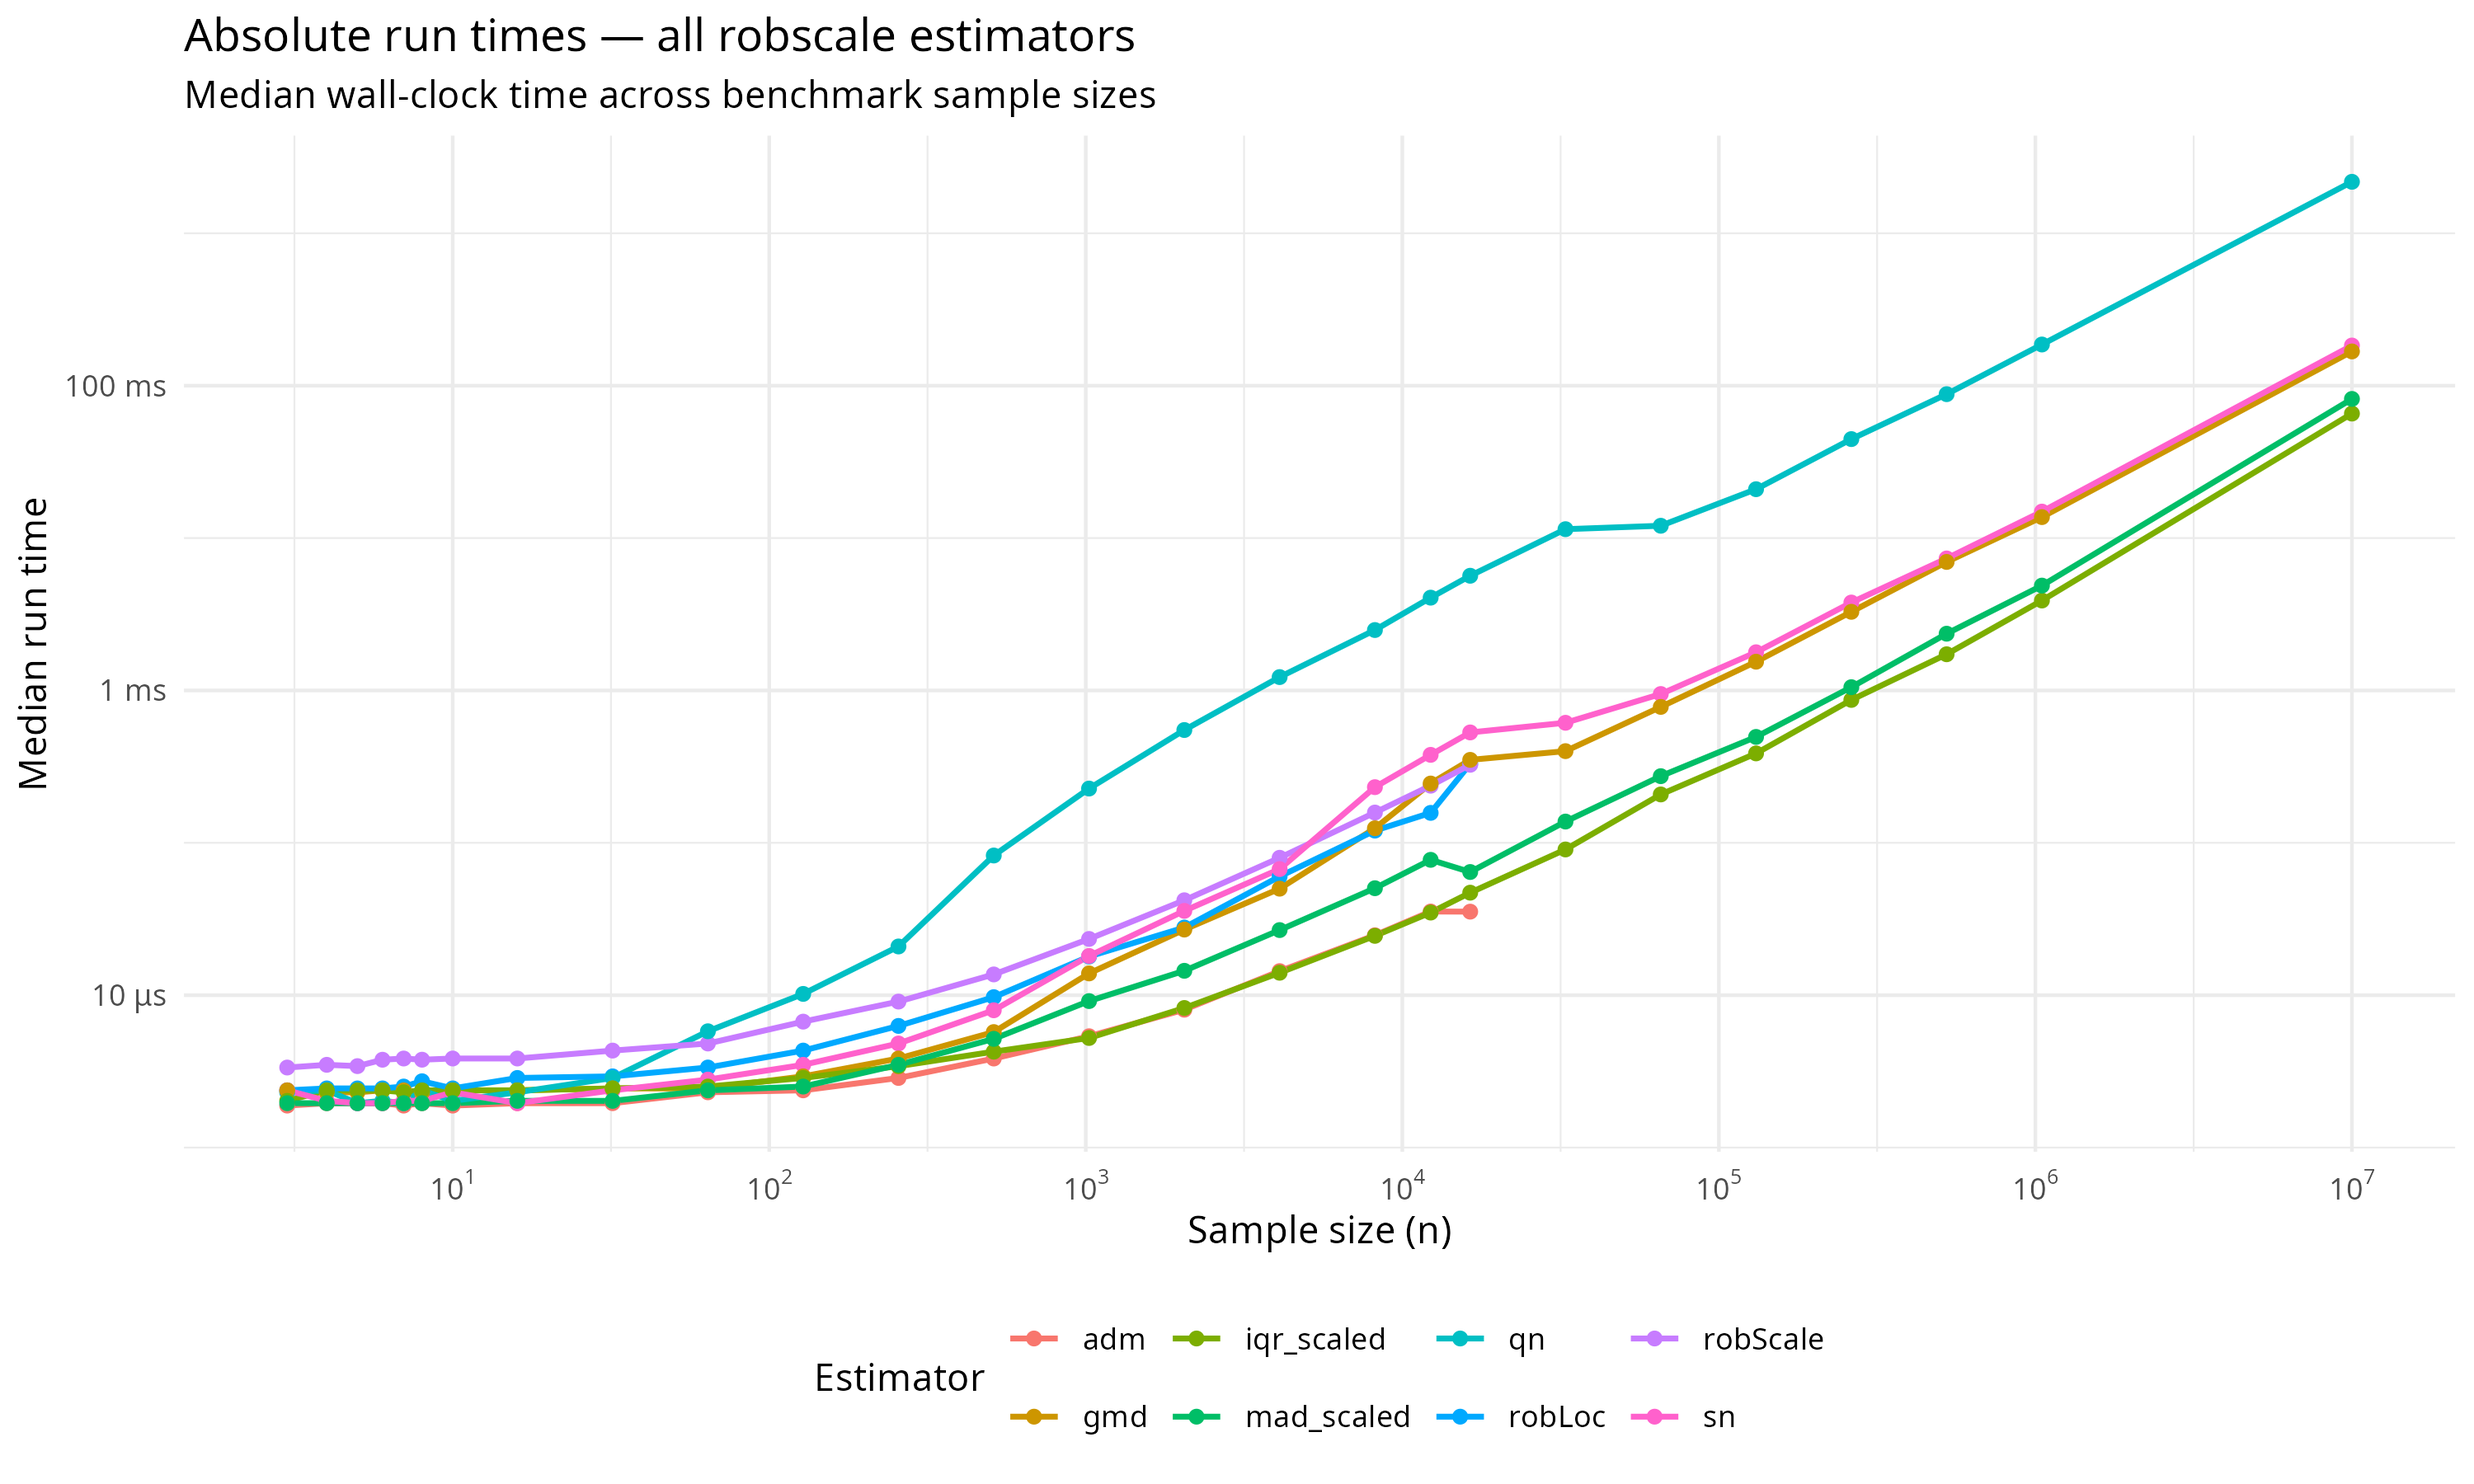
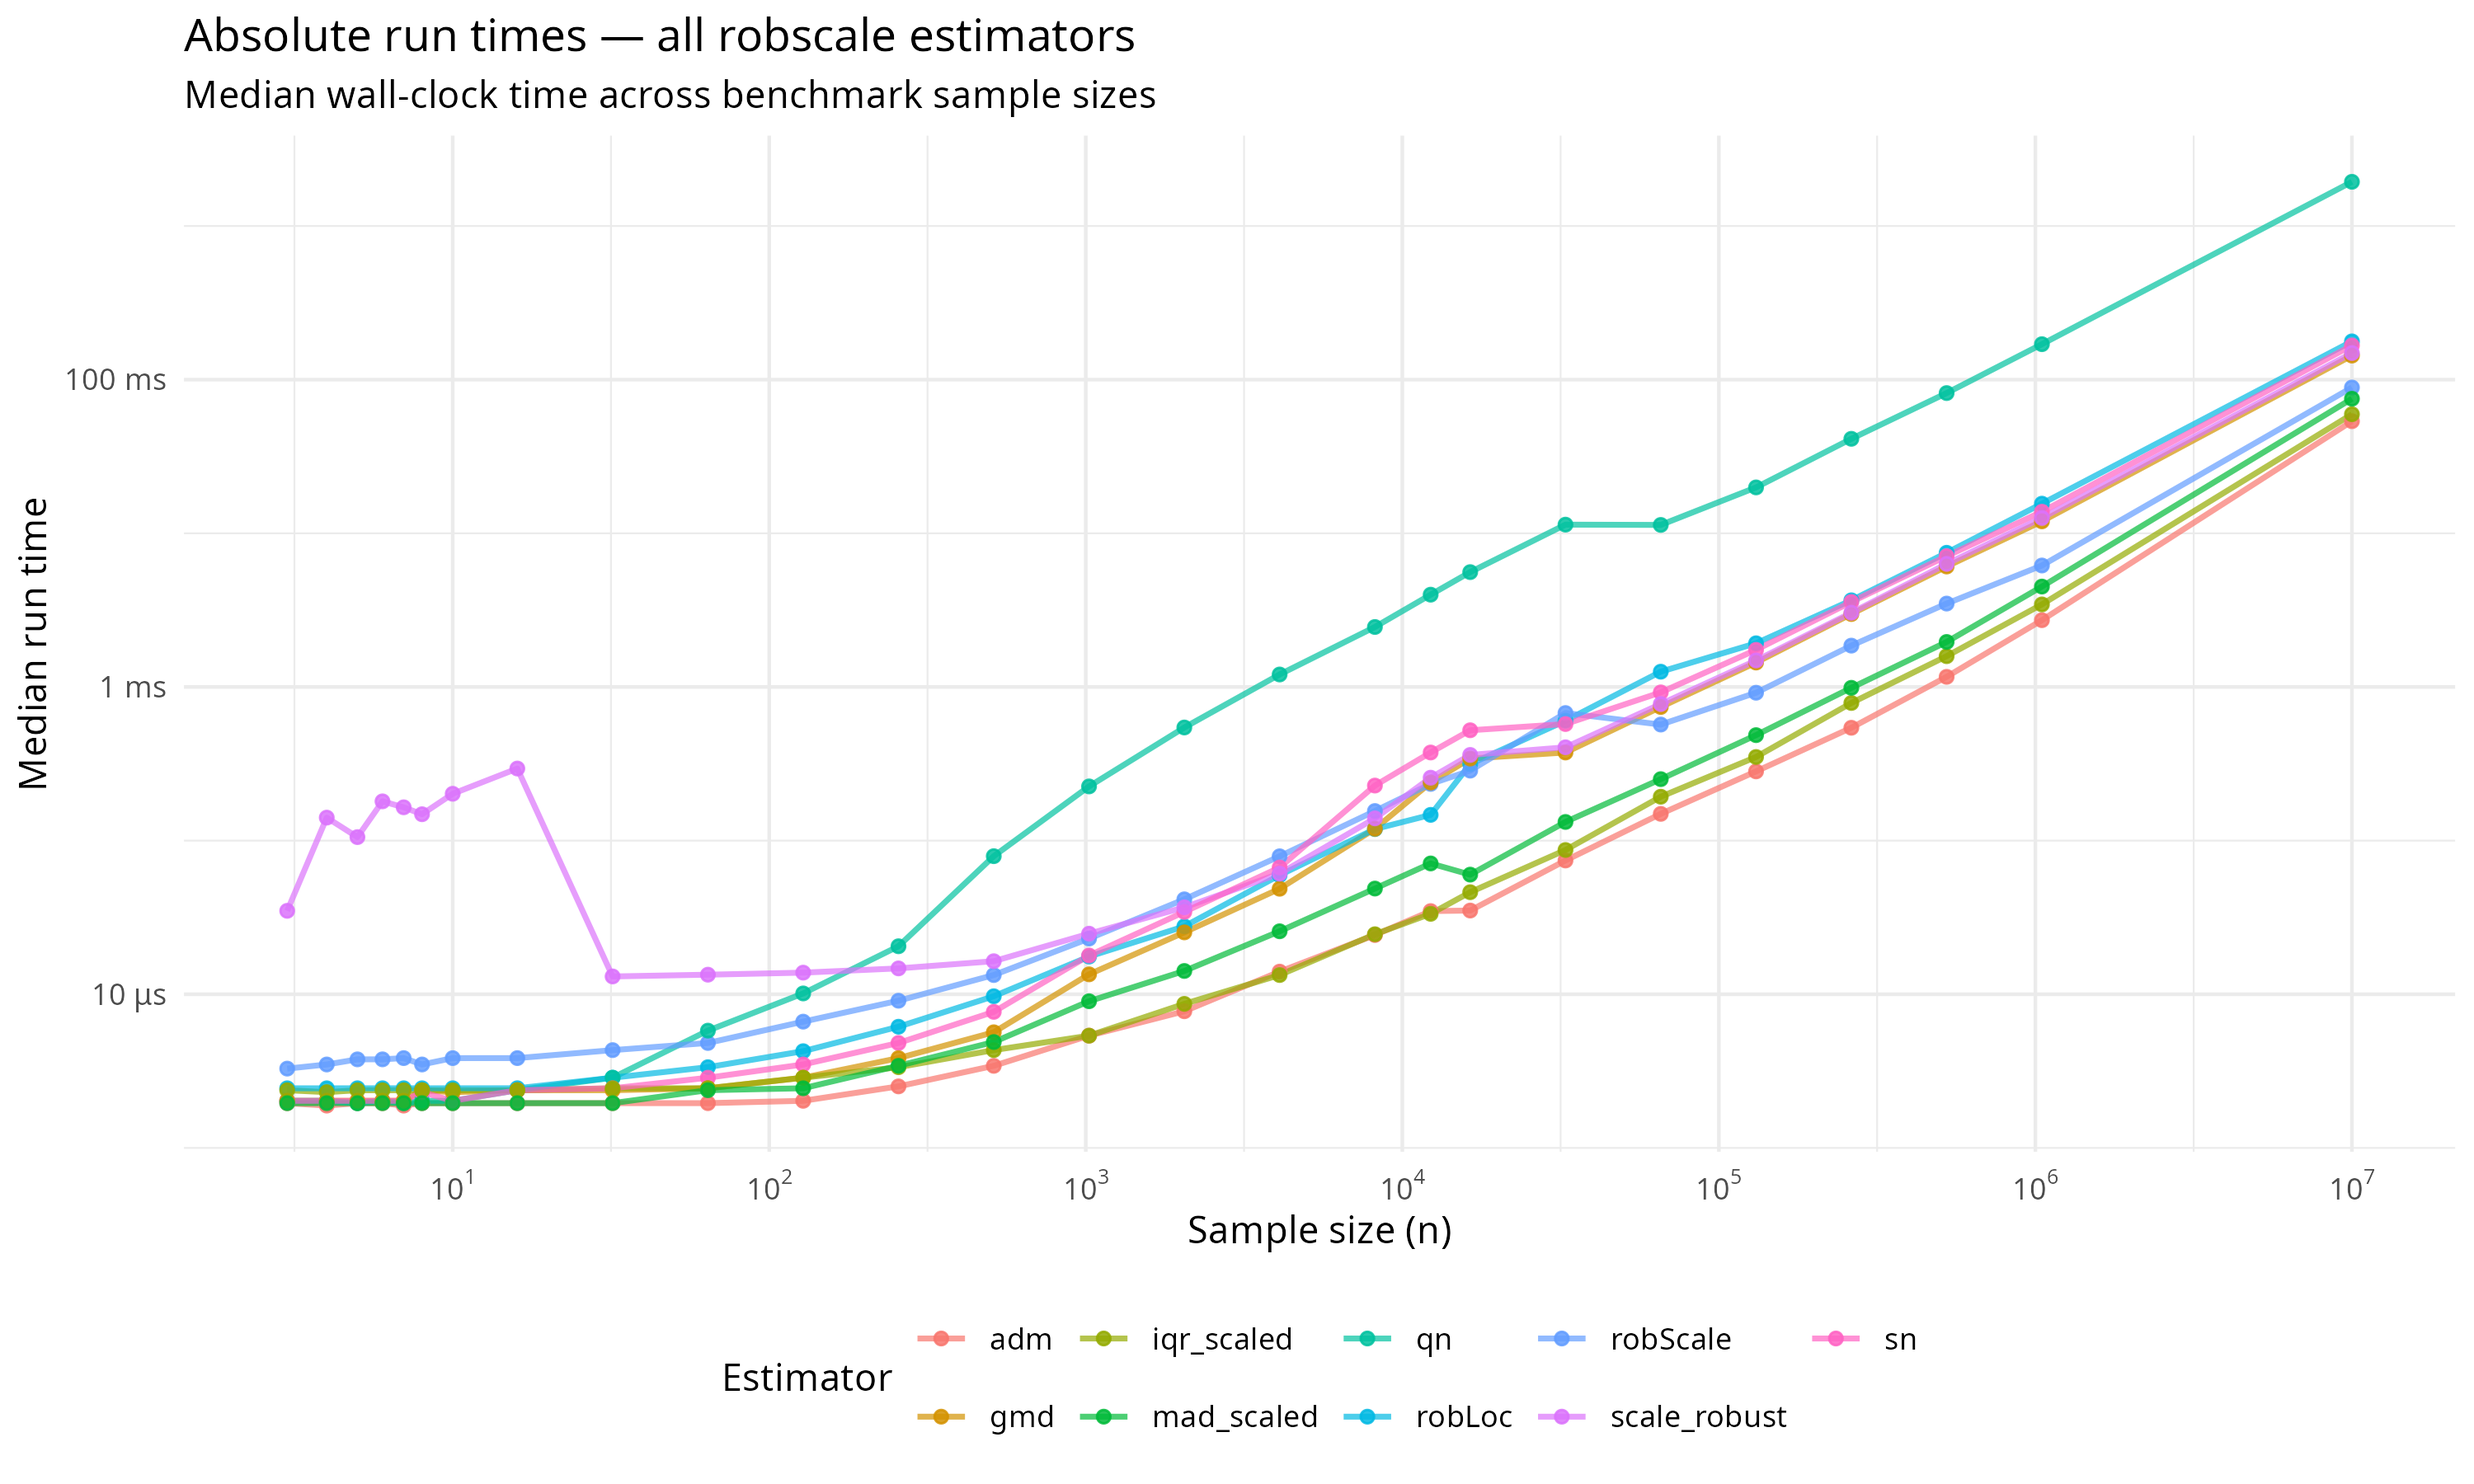
chore: rebuild figures and README after benchmark refresh
- speedup_fig.png: percentile CIs, extended n range to 10^7 for all estimators
- absolute_timing_fig.png: transparency on lines/points, scale_robust ensemble curve added
- README.md: re-rendered with updated tanh backend text (libmvec/SLEEF) and new figures

diff --git a/README.md b/README.md
@@ -356,11 +356,11 @@ get_consistency_constant("qn", n = 10)  # finite-sample correction at n = 10
 
 **SIMD vectorization.** The logistic psi function reduces to
 $\tanh(x/2)$, dispatched to the fastest available platform backend:
-Apple Accelerate (`vvtanh`) on macOS, SLEEF on Linux x86_64, and
-`#pragma omp simd` as a portable fallback. For `robLoc()`, a fused AVX2
-kernel accumulates $\psi_i$ and $\text{d}\psi_i$ in a single pass over
-the data, halving memory reads relative to the standard three-pass
-approach.
+Apple Accelerate (`vvtanh`) on macOS, glibc libmvec (`_ZGVdN4v_tanh`) on
+Linux x86_64 (SLEEF as fallback), and `#pragma omp simd` as a portable
+fallback. For `robLoc()`, a fused AVX2 kernel accumulates $\psi_i$ and
+$\text{d}\psi_i$ in a single pass over the data, halving memory reads
+relative to the standard three-pass approach.
 
 **$O(n)$ median selection.** Median and MAD computation uses optimal
 sorting networks for $n \le 16$ (branchless compare-and-swap sequences,
@@ -446,7 +446,7 @@ graph TD
     subgraph "Hardware Acceleration"
         G["AVX2 (AVX-512 with -mavx512f)"]
         H[Apple Accelerate]
-        I[SLEEF Library]
+        I["libmvec / SLEEF"]
     end
 
     T1 & T2 & T3 --> G & H & I
@@ -585,11 +585,11 @@ by **4.0–19.7x** and a `collapse::fmedian`-based MAD by **1.0–6.0x**
 > (`install.packages("robscale", type = "source")`) enables the
 > `configure` script to detect SIMD capabilities (AVX2/FMA on x86_64,
 > NEON on ARM64) and link platform-specific libraries (Apple Accelerate,
-> SLEEF). Pre-built CRAN binaries use portable settings and may not
-> include these optimizations. Parallelism thresholds are derived from
-> the detected per-core L2 cache size at runtime on all platforms. For
-> maximum performance, add the following to `~/.R/Makevars` before
-> installing:
+> glibc libmvec, SLEEF). Pre-built CRAN binaries use portable settings
+> and may not include these optimizations. Parallelism thresholds are
+> derived from the detected per-core L2 cache size at runtime on all
+> platforms. For maximum performance, add the following to
+> `~/.R/Makevars` before installing:
 >
 >     CXXFLAGS = -O2 -march=native -mtune=native
 
